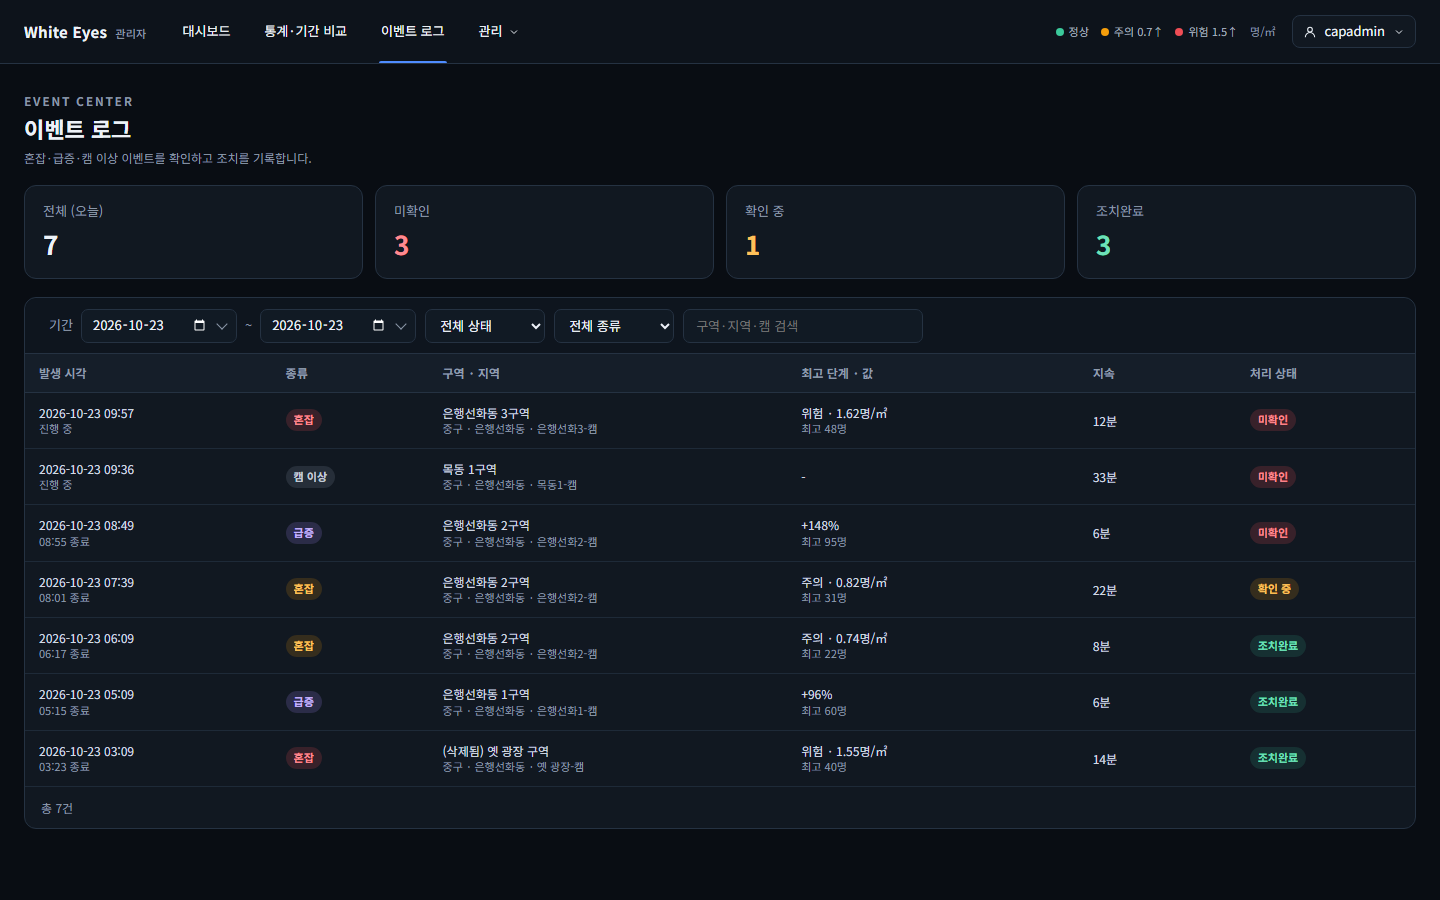
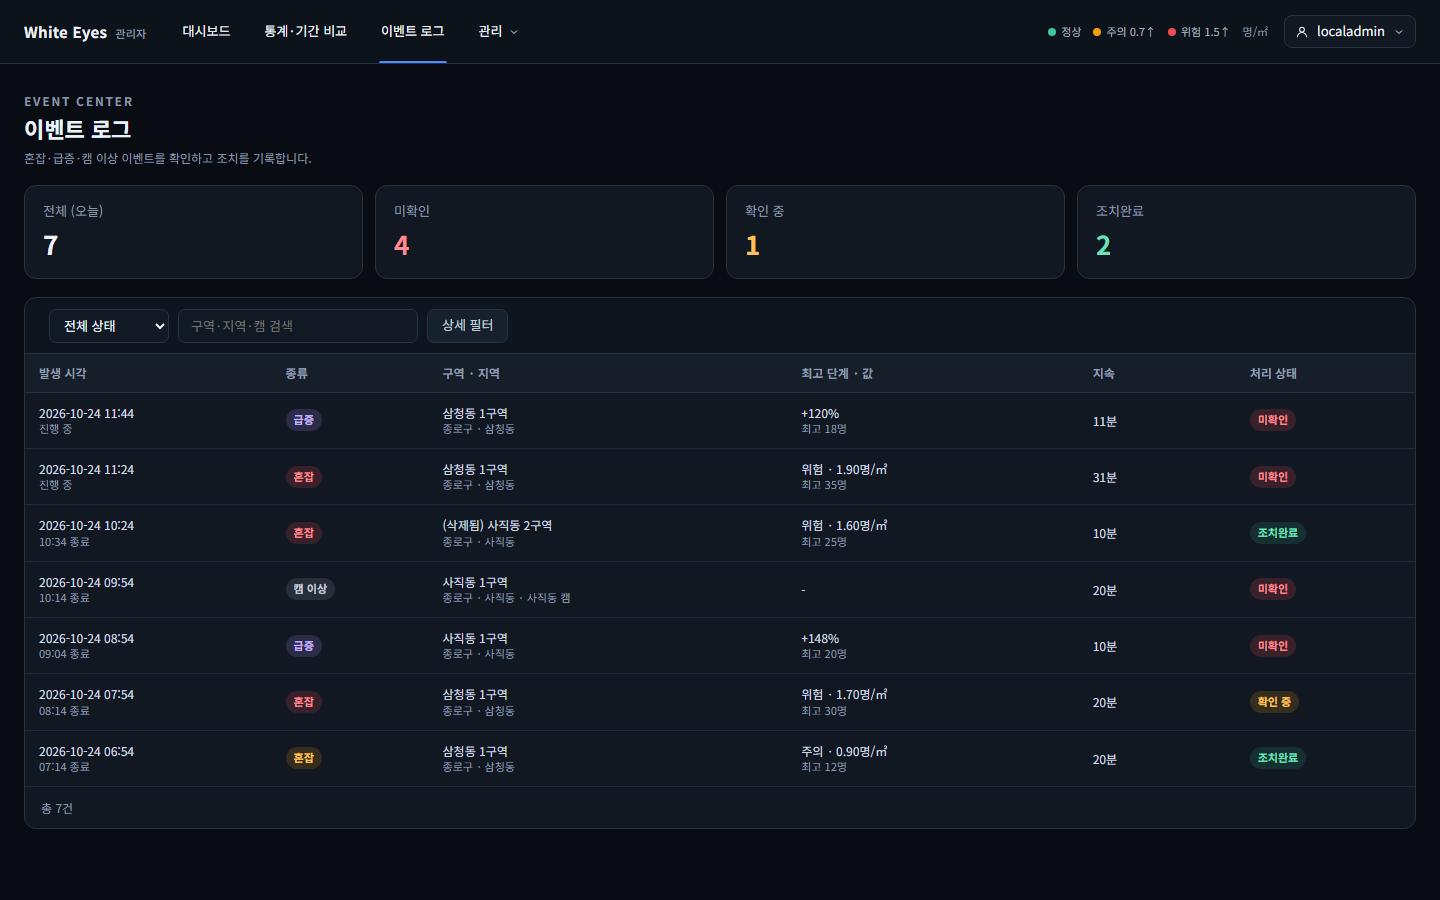
docs: 이벤트 로그 캡처를 상세 필터 접힘 기준으로 갱신 (#40)

diff --git a/test-reports/2026-10-23-stage2-events-list/README.md b/test-reports/2026-10-23-stage2-events-list/README.md
@@ -1,8 +1,9 @@
-# 이벤트 로그(SCR-A-010) 목록 확인 — 2026-10-23
+# 이벤트 로그(SCR-A-010) 목록 확인 — 2026-10-23 (2026-10-24 리뷰 반영 재캡처)
 
 spring #40(FNC-A-036 이벤트 목록)을 실제 브라우저(Playwright Chromium, 1440×900)로 캡처했다. 시안은 `design/png/SCR-A-010-events.png`.
 
 - 환경: WSL Ubuntu의 Docker MySQL 8.4에 관리자 앱(local 프로필)을 붙여 확인했다. 구역·캠·이벤트 7건은 시험용 SQL로 넣었고 커밋하지 않았다. 이 PC에서 Hibernate 스키마 검증이 `zone_stat_daily.is_demo`(tinyint ↔ boolean)로 실패해 캡처 실행에서만 `ddl-auto`를 끄고 띄웠다(이번 변경과 무관, dev에서도 나는지는 확인하지 않음).
+- 2026-10-24 리뷰 반영: 기간·종류는 screens.md SCR-A-010대로 '상세 필터' 버튼을 눌러 펼쳐야 보인다(기본은 접힘). 혼잡·급증 이벤트의 캠 이름은 null이라 위치 칸에 구·동 경로만 나오고, 캠 이상만 캠 이름이 붙는다. 시험용 데이터는 이번에 다시 넣어 7건의 시각·구역이 전과 다르다.
 - 이 화면의 FNC-A-036 부분(요약 카드·필터·이벤트 표)만 만들었다. 상세(FNC-A-037)·조치(FNC-A-038)·내려받기(FNC-A-039)·헤더 배지와 새 이벤트 토스트(FNC-A-048)는 각 이슈 몫이다.
 
 | 상태 | 시안 | 구현 |
@@ -10,13 +11,14 @@ spring #40(FNC-A-036 이벤트 목록)을 실제 브라우저(Playwright Chromiu
 | 오늘 이벤트 7건(혼잡 주의·위험, 급증, 캠 이상, 진행 중·종료, 삭제된 구역, 미확인·확인 중·조치완료) | ![](../../design/png/SCR-A-010-events.png) | ![](01-events-default.png) |
 | 처리 상태 '미확인' 필터 | - | ![](02-events-unchecked.png) |
 | 검색 결과 없음 | - | ![](03-events-empty.png) |
+| '상세 필터' 펼침(기간·종류) | - | ![](04-events-detail-filter.png) |
 
 ## 시안과 다른 점
 **의도**
 - 조치 열·내려받기 버튼·헤더 미확인 배지·새 이벤트 토스트·'행을 누르면 상세 창' 안내: 다른 기능(FNC-A-038·039·048, FNC-A-037)의 몫.
 - 급증 값은 screens.md대로 증가율 `+148%`(시안은 예시 문구 `+148명/5분`), 캠 이상 값은 `-`(시안은 `결과 수신 끊김`).
 - 발생 시각은 공통 형식 `yyyy-MM-dd HH:mm`(시안은 시:분:초). 두 번째 줄에 구·동 경로와 캠 이름, 둘째 줄 값 아래에 최고 인원을 보인다(screens.md 열 설명).
-- 기간 입력은 시작일·종료일 두 칸(시안은 날짜 한 칸).
+- 기간 입력은 시작일·종료일 두 칸(시안은 날짜 한 칸). 기간·종류는 '상세 필터'를 펼쳐서 고른다(screens.md).
 - 한 페이지뿐이면 페이지 번호 버튼을 숨긴다(시안은 `1` 표시). 확인 필요.
 
 ## 확인하지 못한 것
